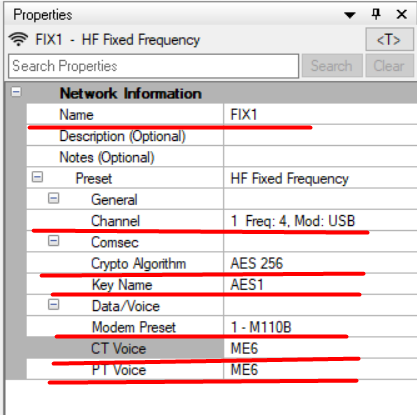
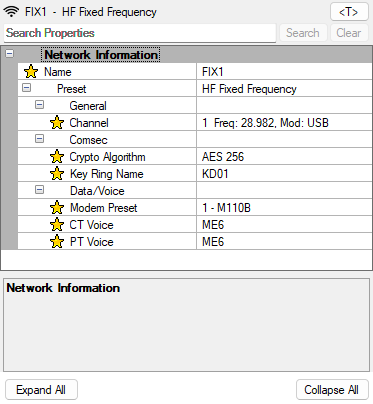
Оновити основні властивості мережі FIX

diff --git a/02-tehnika-bezpeky/quiz.html b/02-tehnika-bezpeky/quiz.html
@@ -1,8 +1,8 @@
 <!doctype html>
-  <script src="../asset-version.js?v=d138f47e12c8"></script>
+  <script src="../asset-version.js?v=d39fc394f5a7"></script>
 
 <script>location.replace("../quiz.html?topic=2");</script>
-<html lang="uk"><head><meta charset="utf-8"><meta name="viewport" content="width=device-width, initial-scale=1"><title>Вікторина</title><link rel="icon" href="data:,"><link rel="stylesheet" href="../style.css?v=d138f47e12c8"><link rel="stylesheet" href="../quiz-common.css?v=d138f47e12c8"></head>
+<html lang="uk"><head><meta charset="utf-8"><meta name="viewport" content="width=device-width, initial-scale=1"><title>Вікторина</title><link rel="icon" href="data:,"><link rel="stylesheet" href="../style.css?v=d39fc394f5a7"><link rel="stylesheet" href="../quiz-common.css?v=d39fc394f5a7"></head>
 <body><main class="page quiz-page">
   <div class="topbar"><a href="index.html">До конспекту</a><span>Тема 2 / Тренування</span></div>
   <header class="quiz-header"><div><p id="topicLabel" class="source"></p><h1 id="quizTitle">Екзаменаційна вікторина</h1></div><div class="scoreboard" aria-label="Стан вікторини"><div><span id="progressText">-</span><small>питання</small></div><div><span id="scoreText">0</span><small>правильно</small></div><div><span id="bestText">-</span><small>найкраще</small></div></div></header>
@@ -10,4 +10,4 @@
   <section id="resumePanel" class="resume-panel" hidden><p class="question-topic">Незавершена спроба</p><h2>Продовжити збережену вікторину?</h2><p id="resumeSummary"></p><div class="quiz-actions"><button id="resumeButton" class="primary-button" type="button">Продовжити</button><button id="newQuizButton" class="secondary-button" type="button">Почати нову</button></div></section>
   <section id="quizPanel" class="quiz-panel" hidden aria-live="polite"><p id="questionTopic" class="question-topic"></p><h2 id="questionText"></h2><div id="answers" class="answers" role="radiogroup"></div><div id="feedback" class="feedback" hidden><p id="feedbackTitle" class="feedback-title"></p><p id="feedbackText"></p><a id="referenceLink" class="reference-link" href="index.html" target="_blank" rel="noopener">Відкрити фрагмент конспекту</a></div><div class="quiz-actions"><button id="checkButton" class="primary-button" type="button" disabled>Перевірити</button><button id="nextButton" class="primary-button" type="button" hidden>Наступне питання</button></div></section>
   <section id="resultPanel" class="result-panel" hidden><p class="result-label">Результат</p><h2 id="resultTitle"></h2><p id="resultMessage"></p><div class="result-stats"><div><strong id="resultCorrectTotal">0/0</strong><span>правильно / усього</span></div><div><strong id="resultGrade">0/5</strong><span>оцінка</span></div><div><strong id="resultPercent">0%</strong><span>правильних</span></div><div><strong id="resultTime">0:00</strong><span>активний час</span></div></div><div id="mistakes" class="mistakes"></div><div class="result-actions"><button id="restartButton" class="primary-button" type="button">Пройти ще раз</button><a class="secondary-button" href="index.html">До конспекту</a></div></section>
-</main><script src="quiz-data.js?v=d138f47e12c8"></script><script src="../quiz-engine.js?v=d138f47e12c8"></script><script src="../site-ui.js?v=d138f47e12c8"></script></body></html>
+</main><script src="quiz-data.js?v=d39fc394f5a7"></script><script src="../quiz-engine.js?v=d39fc394f5a7"></script><script src="../site-ui.js?v=d39fc394f5a7"></script></body></html>

diff --git a/03-radiohvyli-radiozviazok-zavady/quiz.html b/03-radiohvyli-radiozviazok-zavady/quiz.html
@@ -1,8 +1,8 @@
 <!doctype html>
-  <script src="../asset-version.js?v=d138f47e12c8"></script>
+  <script src="../asset-version.js?v=d39fc394f5a7"></script>
 
 <script>location.replace("../quiz.html?topic=3");</script>
-<html lang="uk"><head><meta charset="utf-8"><meta name="viewport" content="width=device-width, initial-scale=1"><title>Вікторина</title><link rel="icon" href="data:,"><link rel="stylesheet" href="../style.css?v=d138f47e12c8"><link rel="stylesheet" href="../quiz-common.css?v=d138f47e12c8"></head>
+<html lang="uk"><head><meta charset="utf-8"><meta name="viewport" content="width=device-width, initial-scale=1"><title>Вікторина</title><link rel="icon" href="data:,"><link rel="stylesheet" href="../style.css?v=d39fc394f5a7"><link rel="stylesheet" href="../quiz-common.css?v=d39fc394f5a7"></head>
 <body><main class="page quiz-page">
   <div class="topbar"><a href="index.html">До конспекту</a><span>Тема 3 / Тренування</span></div>
   <header class="quiz-header"><div><p id="topicLabel" class="source"></p><h1 id="quizTitle">Екзаменаційна вікторина</h1></div><div class="scoreboard" aria-label="Стан вікторини"><div><span id="progressText">-</span><small>питання</small></div><div><span id="scoreText">0</span><small>правильно</small></div><div><span id="bestText">-</span><small>найкраще</small></div></div></header>
@@ -10,4 +10,4 @@
   <section id="resumePanel" class="resume-panel" hidden><p class="question-topic">Незавершена спроба</p><h2>Продовжити збережену вікторину?</h2><p id="resumeSummary"></p><div class="quiz-actions"><button id="resumeButton" class="primary-button" type="button">Продовжити</button><button id="newQuizButton" class="secondary-button" type="button">Почати нову</button></div></section>
   <section id="quizPanel" class="quiz-panel" hidden aria-live="polite"><p id="questionTopic" class="question-topic"></p><h2 id="questionText"></h2><div id="answers" class="answers" role="radiogroup"></div><div id="feedback" class="feedback" hidden><p id="feedbackTitle" class="feedback-title"></p><p id="feedbackText"></p><a id="referenceLink" class="reference-link" href="index.html" target="_blank" rel="noopener">Відкрити фрагмент конспекту</a></div><div class="quiz-actions"><button id="checkButton" class="primary-button" type="button" disabled>Перевірити</button><button id="nextButton" class="primary-button" type="button" hidden>Наступне питання</button></div></section>
   <section id="resultPanel" class="result-panel" hidden><p class="result-label">Результат</p><h2 id="resultTitle"></h2><p id="resultMessage"></p><div class="result-stats"><div><strong id="resultCorrectTotal">0/0</strong><span>правильно / усього</span></div><div><strong id="resultGrade">0/5</strong><span>оцінка</span></div><div><strong id="resultPercent">0%</strong><span>правильних</span></div><div><strong id="resultTime">0:00</strong><span>активний час</span></div></div><div id="mistakes" class="mistakes"></div><div class="result-actions"><button id="restartButton" class="primary-button" type="button">Пройти ще раз</button><a class="secondary-button" href="index.html">До конспекту</a></div></section>
-</main><script src="quiz-data.js?v=d138f47e12c8"></script><script src="../quiz-engine.js?v=d138f47e12c8"></script><script src="../site-ui.js?v=d138f47e12c8"></script></body></html>
+</main><script src="quiz-data.js?v=d39fc394f5a7"></script><script src="../quiz-engine.js?v=d39fc394f5a7"></script><script src="../site-ui.js?v=d39fc394f5a7"></script></body></html>

diff --git a/04-pobudova-radiostantsii-antenny/quiz.html b/04-pobudova-radiostantsii-antenny/quiz.html
@@ -1,8 +1,8 @@
 <!doctype html>
-  <script src="../asset-version.js?v=d138f47e12c8"></script>
+  <script src="../asset-version.js?v=d39fc394f5a7"></script>
 
 <script>location.replace("../quiz.html?topic=4");</script>
-<html lang="uk"><head><meta charset="utf-8"><meta name="viewport" content="width=device-width, initial-scale=1"><title>Вікторина</title><link rel="icon" href="data:,"><link rel="stylesheet" href="../style.css?v=d138f47e12c8"><link rel="stylesheet" href="../quiz-common.css?v=d138f47e12c8"></head>
+<html lang="uk"><head><meta charset="utf-8"><meta name="viewport" content="width=device-width, initial-scale=1"><title>Вікторина</title><link rel="icon" href="data:,"><link rel="stylesheet" href="../style.css?v=d39fc394f5a7"><link rel="stylesheet" href="../quiz-common.css?v=d39fc394f5a7"></head>
 <body><main class="page quiz-page">
   <div class="topbar"><a href="index.html">До конспекту</a><span>Тема 4 / Тренування</span></div>
   <header class="quiz-header"><div><p id="topicLabel" class="source"></p><h1 id="quizTitle">Екзаменаційна вікторина</h1></div><div class="scoreboard" aria-label="Стан вікторини"><div><span id="progressText">-</span><small>питання</small></div><div><span id="scoreText">0</span><small>правильно</small></div><div><span id="bestText">-</span><small>найкраще</small></div></div></header>
@@ -10,4 +10,4 @@
   <section id="resumePanel" class="resume-panel" hidden><p class="question-topic">Незавершена спроба</p><h2>Продовжити збережену вікторину?</h2><p id="resumeSummary"></p><div class="quiz-actions"><button id="resumeButton" class="primary-button" type="button">Продовжити</button><button id="newQuizButton" class="secondary-button" type="button">Почати нову</button></div></section>
   <section id="quizPanel" class="quiz-panel" hidden aria-live="polite"><p id="questionTopic" class="question-topic"></p><h2 id="questionText"></h2><div id="answers" class="answers" role="radiogroup"></div><div id="feedback" class="feedback" hidden><p id="feedbackTitle" class="feedback-title"></p><p id="feedbackText"></p><a id="referenceLink" class="reference-link" href="index.html" target="_blank" rel="noopener">Відкрити фрагмент конспекту</a></div><div class="quiz-actions"><button id="checkButton" class="primary-button" type="button" disabled>Перевірити</button><button id="nextButton" class="primary-button" type="button" hidden>Наступне питання</button></div></section>
   <section id="resultPanel" class="result-panel" hidden><p class="result-label">Результат</p><h2 id="resultTitle"></h2><p id="resultMessage"></p><div class="result-stats"><div><strong id="resultCorrectTotal">0/0</strong><span>правильно / усього</span></div><div><strong id="resultGrade">0/5</strong><span>оцінка</span></div><div><strong id="resultPercent">0%</strong><span>правильних</span></div><div><strong id="resultTime">0:00</strong><span>активний час</span></div></div><div id="mistakes" class="mistakes"></div><div class="result-actions"><button id="restartButton" class="primary-button" type="button">Пройти ще раз</button><a class="secondary-button" href="index.html">До конспекту</a></div></section>
-</main><script src="quiz-data.js?v=d138f47e12c8"></script><script src="../quiz-engine.js?v=d138f47e12c8"></script><script src="../site-ui.js?v=d138f47e12c8"></script></body></html>
+</main><script src="quiz-data.js?v=d39fc394f5a7"></script><script src="../quiz-engine.js?v=d39fc394f5a7"></script><script src="../site-ui.js?v=d39fc394f5a7"></script></body></html>

diff --git a/05-harris-ukh/quiz.html b/05-harris-ukh/quiz.html
@@ -1,8 +1,8 @@
 <!doctype html>
-  <script src="../asset-version.js?v=d138f47e12c8"></script>
+  <script src="../asset-version.js?v=d39fc394f5a7"></script>
 
 <script>location.replace("../quiz.html?topic=5");</script>
-<html lang="uk"><head><meta charset="utf-8"><meta name="viewport" content="width=device-width, initial-scale=1"><title>Вікторина</title><link rel="icon" href="data:,"><link rel="stylesheet" href="../style.css?v=d138f47e12c8"><link rel="stylesheet" href="../quiz-common.css?v=d138f47e12c8"></head>
+<html lang="uk"><head><meta charset="utf-8"><meta name="viewport" content="width=device-width, initial-scale=1"><title>Вікторина</title><link rel="icon" href="data:,"><link rel="stylesheet" href="../style.css?v=d39fc394f5a7"><link rel="stylesheet" href="../quiz-common.css?v=d39fc394f5a7"></head>
 <body><main class="page quiz-page">
   <div class="topbar"><a href="index.html">До конспекту</a><span>Тема 5 / Тренування</span></div>
   <header class="quiz-header"><div><p id="topicLabel" class="source"></p><h1 id="quizTitle">Екзаменаційна вікторина</h1></div><div class="scoreboard" aria-label="Стан вікторини"><div><span id="progressText">-</span><small>питання</small></div><div><span id="scoreText">0</span><small>правильно</small></div><div><span id="bestText">-</span><small>найкраще</small></div></div></header>
@@ -10,4 +10,4 @@
   <section id="resumePanel" class="resume-panel" hidden><p class="question-topic">Незавершена спроба</p><h2>Продовжити збережену вікторину?</h2><p id="resumeSummary"></p><div class="quiz-actions"><button id="resumeButton" class="primary-button" type="button">Продовжити</button><button id="newQuizButton" class="secondary-button" type="button">Почати нову</button></div></section>
   <section id="quizPanel" class="quiz-panel" hidden aria-live="polite"><p id="questionTopic" class="question-topic"></p><h2 id="questionText"></h2><div id="answers" class="answers" role="radiogroup"></div><div id="feedback" class="feedback" hidden><p id="feedbackTitle" class="feedback-title"></p><p id="feedbackText"></p><a id="referenceLink" class="reference-link" href="index.html" target="_blank" rel="noopener">Відкрити фрагмент конспекту</a></div><div class="quiz-actions"><button id="checkButton" class="primary-button" type="button" disabled>Перевірити</button><button id="nextButton" class="primary-button" type="button" hidden>Наступне питання</button></div></section>
   <section id="resultPanel" class="result-panel" hidden><p class="result-label">Результат</p><h2 id="resultTitle"></h2><p id="resultMessage"></p><div class="result-stats"><div><strong id="resultCorrectTotal">0/0</strong><span>правильно / усього</span></div><div><strong id="resultGrade">0/5</strong><span>оцінка</span></div><div><strong id="resultPercent">0%</strong><span>правильних</span></div><div><strong id="resultTime">0:00</strong><span>активний час</span></div></div><div id="mistakes" class="mistakes"></div><div class="result-actions"><button id="restartButton" class="primary-button" type="button">Пройти ще раз</button><a class="secondary-button" href="index.html">До конспекту</a></div></section>
-</main><script src="quiz-data.js?v=d138f47e12c8"></script><script src="../quiz-engine.js?v=d138f47e12c8"></script><script src="../site-ui.js?v=d138f47e12c8"></script></body></html>
+</main><script src="quiz-data.js?v=d39fc394f5a7"></script><script src="../quiz-engine.js?v=d39fc394f5a7"></script><script src="../site-ui.js?v=d39fc394f5a7"></script></body></html>

diff --git a/08-harris-kh-programuvannia/index.html b/08-harris-kh-programuvannia/index.html
@@ -5,7 +5,7 @@
   <meta name="viewport" content="width=device-width, initial-scale=1">
   <title>8. Програмування HARRIS КХ RF-7800H-MP</title>
   <link rel="icon" href="data:,">
-  <link rel="stylesheet" href="../style.css?v=d138f47e12c8">
+  <link rel="stylesheet" href="../style.css?v=d39fc394f5a7">
 </head>
 <body>
   <main class="page">
@@ -196,11 +196,11 @@
         <li><code>Name</code> — назва мережі;</li>
         <li><code>Channel</code> — канал, створений у <code>Tools → HF Channels</code>;</li>
         <li><code>Crypto Algorithm</code> — алгоритм шифрування;</li>
-        <li><code>Key Name</code> — створений ключ;</li>
+        <li><code>Key Ring Name</code> — створене кільце ключів;</li>
         <li><code>Modem Preset</code> — профіль модема;</li>
         <li><code>CT Voice</code> і <code>PT Voice</code> — вокодери для захищеного та відкритого режимів.</li>
       </ul>
-      <figure class="procedure-shot">
+      <figure class="procedure-shot procedure-shot-narrow">
         <button class="procedure-shot-button" type="button" aria-label="Збільшити властивості FIX"><img src="fix-network-properties.png" alt="Основні властивості мережі HF Fixed Frequency" loading="lazy"></button>
         <figcaption>Основні параметри мережі HF Fixed Frequency.</figcaption>
       </figure>
@@ -349,12 +349,12 @@
       <p><a href="../07-harris-kh-ekspluatatsiia/index.html#ip-adresa">Перегляд налаштування DIRECT USB та IP-адреси радіостанції</a></p>
     </section>
   </main>
-  <script src="../asset-version.js?v=d138f47e12c8"></script>
-  <script src="../search-index.js?v=d138f47e12c8"></script>
-  <script src="../topic-search.js?v=d138f47e12c8"></script>
+  <script src="../asset-version.js?v=d39fc394f5a7"></script>
+  <script src="../search-index.js?v=d39fc394f5a7"></script>
+  <script src="../topic-search.js?v=d39fc394f5a7"></script>
   <script>window.GLOSSARY_ROOT = "../";</script>
-  <script src="../glossary-data.js?v=d138f47e12c8"></script>
-  <script src="../glossary-terms.js?v=d138f47e12c8"></script>
-  <script src="../site-ui.js?v=d138f47e12c8"></script>
+  <script src="../glossary-data.js?v=d39fc394f5a7"></script>
+  <script src="../glossary-terms.js?v=d39fc394f5a7"></script>
+  <script src="../site-ui.js?v=d39fc394f5a7"></script>
 </body>
 </html>

diff --git a/02-tehnika-bezpeky/index.html b/02-tehnika-bezpeky/index.html
@@ -4,7 +4,7 @@
   <meta charset="utf-8">
   <meta name="viewport" content="width=device-width, initial-scale=1">
   <title>2. Техніка безпеки при експлуатації та обслуговуванні засобів радіозв'язку</title>
-  <link rel="stylesheet" href="../style.css?v=d138f47e12c8">
+  <link rel="stylesheet" href="../style.css?v=d39fc394f5a7">
 </head>
 <body>
   <main class="page">
@@ -166,13 +166,13 @@
     <div class="topic-quiz-cta"><div><strong>Перевір себе</strong><span>Перевір знання за матеріалами цієї теми.</span></div><a class="topic-quiz-button" href="../quiz.html?topic=2">Почати вікторину <span aria-hidden="true">→</span></a></div>
 
   </main>
-  <script src="../asset-version.js?v=d138f47e12c8"></script>
+  <script src="../asset-version.js?v=d39fc394f5a7"></script>
 
-  <script src="../search-index.js?v=d138f47e12c8"></script>
-  <script src="../topic-search.js?v=d138f47e12c8"></script>
+  <script src="../search-index.js?v=d39fc394f5a7"></script>
+  <script src="../topic-search.js?v=d39fc394f5a7"></script>
   <script>window.GLOSSARY_ROOT = "../";</script>
-  <script src="../glossary-data.js?v=d138f47e12c8"></script>
-  <script src="../glossary-terms.js?v=d138f47e12c8"></script>
-  <script src="../site-ui.js?v=d138f47e12c8"></script>
+  <script src="../glossary-data.js?v=d39fc394f5a7"></script>
+  <script src="../glossary-terms.js?v=d39fc394f5a7"></script>
+  <script src="../site-ui.js?v=d39fc394f5a7"></script>
 </body>
 </html>

diff --git a/01-osnovy-radiozviazku/index.html b/01-osnovy-radiozviazku/index.html
@@ -4,7 +4,7 @@
   <meta charset="utf-8">
   <meta name="viewport" content="width=device-width, initial-scale=1">
   <title>1. Основи радіозв'язку: організація, режими, радіообмін</title>
-  <link rel="stylesheet" href="../style.css?v=d138f47e12c8">
+  <link rel="stylesheet" href="../style.css?v=d39fc394f5a7">
 </head>
 <body>
   <main class="page">
@@ -205,13 +205,13 @@
 
     <div class="topic-quiz-cta"><div><strong>Перевір себе</strong><span>Перевір знання за матеріалами цієї теми.</span></div><a class="topic-quiz-button" href="../quiz.html?topic=1">Почати вікторину <span aria-hidden="true">→</span></a></div>
   </main>
-  <script src="../asset-version.js?v=d138f47e12c8"></script>
+  <script src="../asset-version.js?v=d39fc394f5a7"></script>
 
-  <script src="../search-index.js?v=d138f47e12c8"></script>
-  <script src="../topic-search.js?v=d138f47e12c8"></script>
+  <script src="../search-index.js?v=d39fc394f5a7"></script>
+  <script src="../topic-search.js?v=d39fc394f5a7"></script>
   <script>window.GLOSSARY_ROOT = "../";</script>
-  <script src="../glossary-data.js?v=d138f47e12c8"></script>
-  <script src="../glossary-terms.js?v=d138f47e12c8"></script>
-  <script src="../site-ui.js?v=d138f47e12c8"></script>
+  <script src="../glossary-data.js?v=d39fc394f5a7"></script>
+  <script src="../glossary-terms.js?v=d39fc394f5a7"></script>
+  <script src="../site-ui.js?v=d39fc394f5a7"></script>
 </body>
 </html>

diff --git a/04-pobudova-radiostantsii-antenny/index.html b/04-pobudova-radiostantsii-antenny/index.html
@@ -4,7 +4,7 @@
   <meta charset="utf-8">
   <meta name="viewport" content="width=device-width, initial-scale=1">
   <title>4. Побудова сучасних радіостанцій та антени</title>
-  <link rel="stylesheet" href="../style.css?v=d138f47e12c8">
+  <link rel="stylesheet" href="../style.css?v=d39fc394f5a7">
 </head>
 <body>
   <main class="page">
@@ -208,13 +208,13 @@
     <div class="topic-quiz-cta"><div><strong>Перевір себе</strong><span>Перевір знання за матеріалами цієї теми.</span></div><a class="topic-quiz-button" href="../quiz.html?topic=4">Почати вікторину <span aria-hidden="true">→</span></a></div>
 
   </main>
-  <script src="../asset-version.js?v=d138f47e12c8"></script>
+  <script src="../asset-version.js?v=d39fc394f5a7"></script>
 
-  <script src="../search-index.js?v=d138f47e12c8"></script>
-  <script src="../topic-search.js?v=d138f47e12c8"></script>
+  <script src="../search-index.js?v=d39fc394f5a7"></script>
+  <script src="../topic-search.js?v=d39fc394f5a7"></script>
   <script>window.GLOSSARY_ROOT = "../";</script>
-  <script src="../glossary-data.js?v=d138f47e12c8"></script>
-  <script src="../glossary-terms.js?v=d138f47e12c8"></script>
-  <script src="../site-ui.js?v=d138f47e12c8"></script>
+  <script src="../glossary-data.js?v=d39fc394f5a7"></script>
+  <script src="../glossary-terms.js?v=d39fc394f5a7"></script>
+  <script src="../site-ui.js?v=d39fc394f5a7"></script>
 </body>
 </html>

diff --git a/03-radiohvyli-radiozviazok-zavady/index.html b/03-radiohvyli-radiozviazok-zavady/index.html
@@ -4,7 +4,7 @@
   <meta charset="utf-8">
   <meta name="viewport" content="width=device-width, initial-scale=1">
   <title>3. Радіохвилі, радіозв'язок і радіозавади</title>
-  <link rel="stylesheet" href="../style.css?v=d138f47e12c8">
+  <link rel="stylesheet" href="../style.css?v=d39fc394f5a7">
 </head>
 <body>
   <main class="page">
@@ -171,13 +171,13 @@
     <div class="topic-quiz-cta"><div><strong>Перевір себе</strong><span>Перевір знання за матеріалами цієї теми.</span></div><a class="topic-quiz-button" href="../quiz.html?topic=3">Почати вікторину <span aria-hidden="true">→</span></a></div>
 
   </main>
-  <script src="../asset-version.js?v=d138f47e12c8"></script>
+  <script src="../asset-version.js?v=d39fc394f5a7"></script>
 
-  <script src="../search-index.js?v=d138f47e12c8"></script>
-  <script src="../topic-search.js?v=d138f47e12c8"></script>
+  <script src="../search-index.js?v=d39fc394f5a7"></script>
+  <script src="../topic-search.js?v=d39fc394f5a7"></script>
   <script>window.GLOSSARY_ROOT = "../";</script>
-  <script src="../glossary-data.js?v=d138f47e12c8"></script>
-  <script src="../glossary-terms.js?v=d138f47e12c8"></script>
-  <script src="../site-ui.js?v=d138f47e12c8"></script>
+  <script src="../glossary-data.js?v=d39fc394f5a7"></script>
+  <script src="../glossary-terms.js?v=d39fc394f5a7"></script>
+  <script src="../site-ui.js?v=d39fc394f5a7"></script>
 </body>
 </html>

diff --git a/07-harris-kh-ekspluatatsiia/index.html b/07-harris-kh-ekspluatatsiia/index.html
@@ -5,7 +5,7 @@
   <meta name="viewport" content="width=device-width, initial-scale=1">
   <title>7. Експлуатація HARRIS КХ RF-7800H-MP / MPR-9600-MP</title>
   <link rel="icon" href="data:,">
-  <link rel="stylesheet" href="../style.css?v=d138f47e12c8">
+  <link rel="stylesheet" href="../style.css?v=d39fc394f5a7">
 </head>
 <body>
   <main class="page">
@@ -216,13 +216,13 @@
 
     <div class="topic-quiz-cta"><div><strong>Перевір себе</strong><span>Перевір знання за матеріалами цієї теми.</span></div><a class="topic-quiz-button" href="../quiz.html?topic=7">Почати вікторину <span aria-hidden="true">→</span></a></div>
   </main>
-  <script src="../asset-version.js?v=d138f47e12c8"></script>
+  <script src="../asset-version.js?v=d39fc394f5a7"></script>
 
-  <script src="../search-index.js?v=d138f47e12c8"></script>
-  <script src="../topic-search.js?v=d138f47e12c8"></script>
+  <script src="../search-index.js?v=d39fc394f5a7"></script>
+  <script src="../topic-search.js?v=d39fc394f5a7"></script>
   <script>window.GLOSSARY_ROOT = "../";</script>
-  <script src="../glossary-data.js?v=d138f47e12c8"></script>
-  <script src="../glossary-terms.js?v=d138f47e12c8"></script>
-  <script src="../site-ui.js?v=d138f47e12c8"></script>
+  <script src="../glossary-data.js?v=d39fc394f5a7"></script>
+  <script src="../glossary-terms.js?v=d39fc394f5a7"></script>
+  <script src="../site-ui.js?v=d39fc394f5a7"></script>
 </body>
 </html>

diff --git a/05-harris-ukh/index.html b/05-harris-ukh/index.html
@@ -5,7 +5,7 @@
   <meta name="viewport" content="width=device-width, initial-scale=1">
   <title>5. ТТХ HARRIS УКХ RF-7850M-HH / RF-7800V-HH</title>
   <link rel="icon" href="data:,">
-  <link rel="stylesheet" href="../style.css?v=d138f47e12c8">
+  <link rel="stylesheet" href="../style.css?v=d39fc394f5a7">
 </head>
 <body>
   <main class="page">
@@ -498,13 +498,13 @@
     <div class="topic-quiz-cta"><div><strong>Перевір себе</strong><span>Перевір знання за матеріалами цієї теми.</span></div><a class="topic-quiz-button" href="../quiz.html?topic=5">Почати вікторину <span aria-hidden="true">→</span></a></div>
 
   </main>
-  <script src="../asset-version.js?v=d138f47e12c8"></script>
+  <script src="../asset-version.js?v=d39fc394f5a7"></script>
 
-  <script src="../search-index.js?v=d138f47e12c8"></script>
-  <script src="../topic-search.js?v=d138f47e12c8"></script>
+  <script src="../search-index.js?v=d39fc394f5a7"></script>
+  <script src="../topic-search.js?v=d39fc394f5a7"></script>
   <script>window.GLOSSARY_ROOT = "../";</script>
-  <script src="../glossary-data.js?v=d138f47e12c8"></script>
-  <script src="../glossary-terms.js?v=d138f47e12c8"></script>
-  <script src="../site-ui.js?v=d138f47e12c8"></script>
+  <script src="../glossary-data.js?v=d39fc394f5a7"></script>
+  <script src="../glossary-terms.js?v=d39fc394f5a7"></script>
+  <script src="../site-ui.js?v=d39fc394f5a7"></script>
 </body>
 </html>

diff --git a/06-harris-kh/index.html b/06-harris-kh/index.html
@@ -5,7 +5,7 @@
   <meta name="viewport" content="width=device-width, initial-scale=1">
   <title>6. ТТХ HARRIS КХ RF-7800H-MP / MPR-9600-MP</title>
   <link rel="icon" href="data:,">
-  <link rel="stylesheet" href="../style.css?v=d138f47e12c8">
+  <link rel="stylesheet" href="../style.css?v=d39fc394f5a7">
 </head>
 <body>
   <main class="page">
@@ -296,13 +296,13 @@
 
     <div class="topic-quiz-cta"><div><strong>Перевір себе</strong><span>Перевір знання за матеріалами цієї теми.</span></div><a class="topic-quiz-button" href="../quiz.html?topic=6">Почати вікторину <span aria-hidden="true">→</span></a></div>
   </main>
-  <script src="../asset-version.js?v=d138f47e12c8"></script>
+  <script src="../asset-version.js?v=d39fc394f5a7"></script>
 
-  <script src="../search-index.js?v=d138f47e12c8"></script>
-  <script src="../topic-search.js?v=d138f47e12c8"></script>
+  <script src="../search-index.js?v=d39fc394f5a7"></script>
+  <script src="../topic-search.js?v=d39fc394f5a7"></script>
   <script>window.GLOSSARY_ROOT = "../";</script>
-  <script src="../glossary-data.js?v=d138f47e12c8"></script>
-  <script src="../glossary-terms.js?v=d138f47e12c8"></script>
-  <script src="../site-ui.js?v=d138f47e12c8"></script>
+  <script src="../glossary-data.js?v=d39fc394f5a7"></script>
+  <script src="../glossary-terms.js?v=d39fc394f5a7"></script>
+  <script src="../site-ui.js?v=d39fc394f5a7"></script>
 </body>
 </html>
